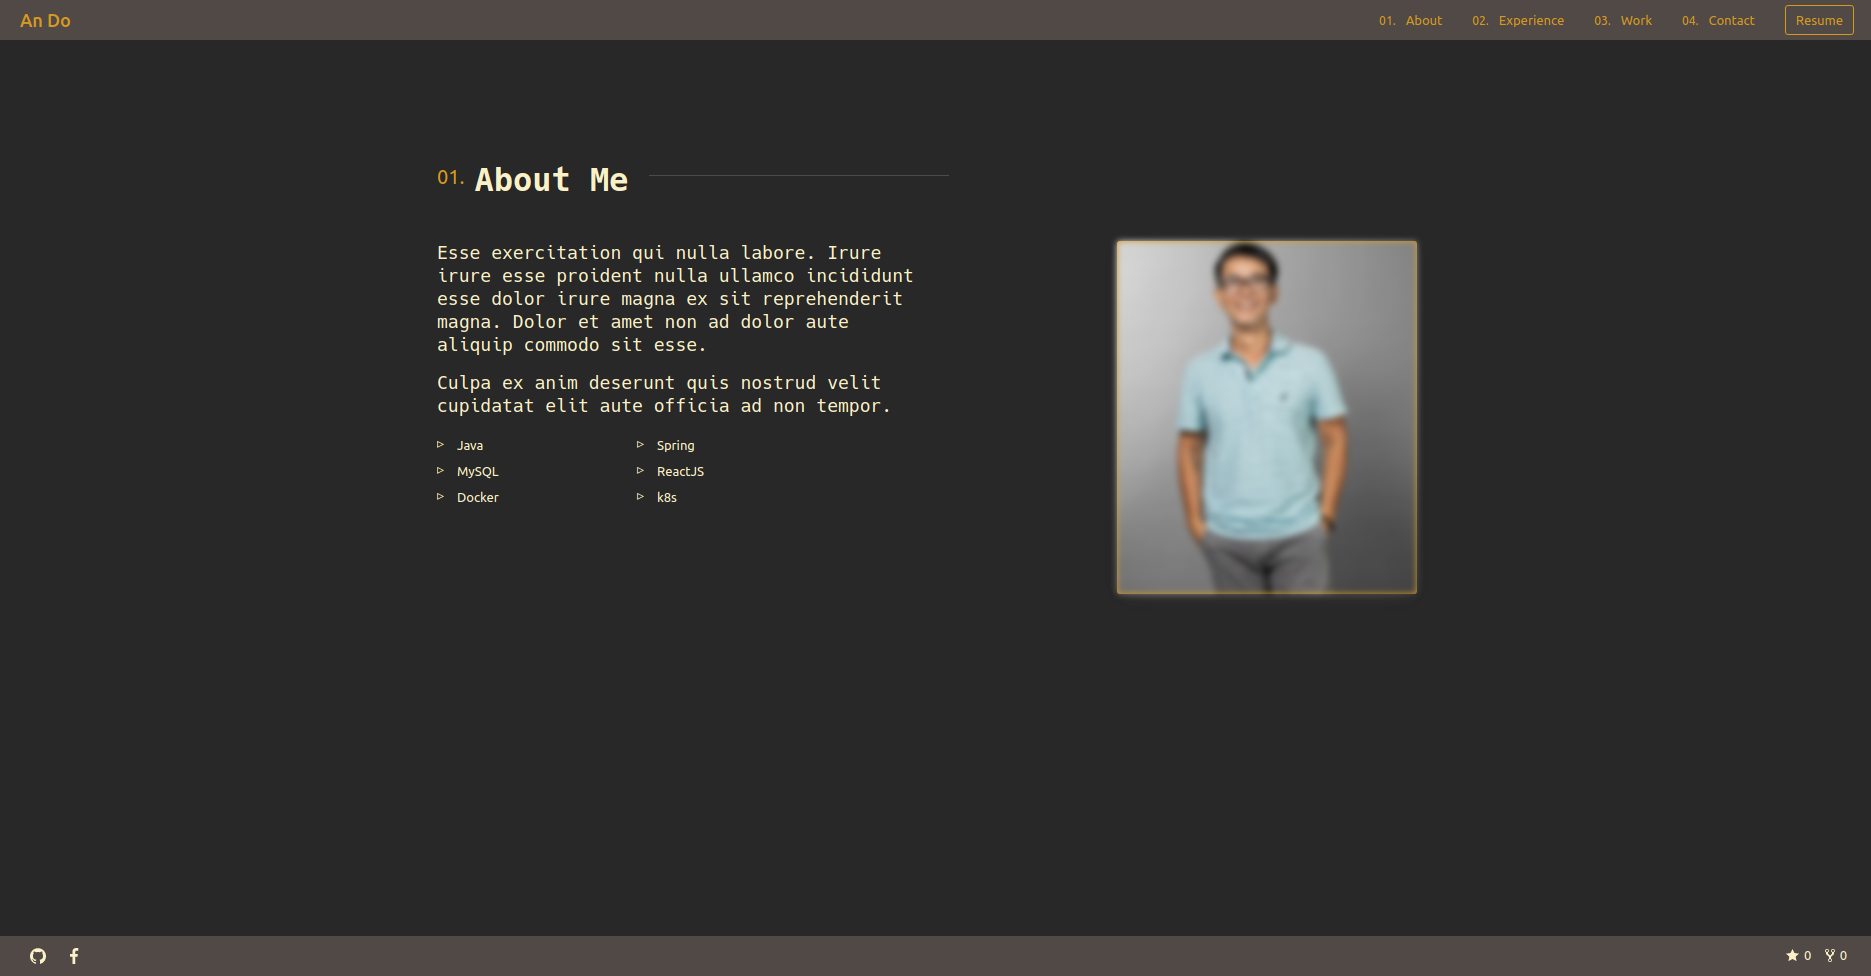
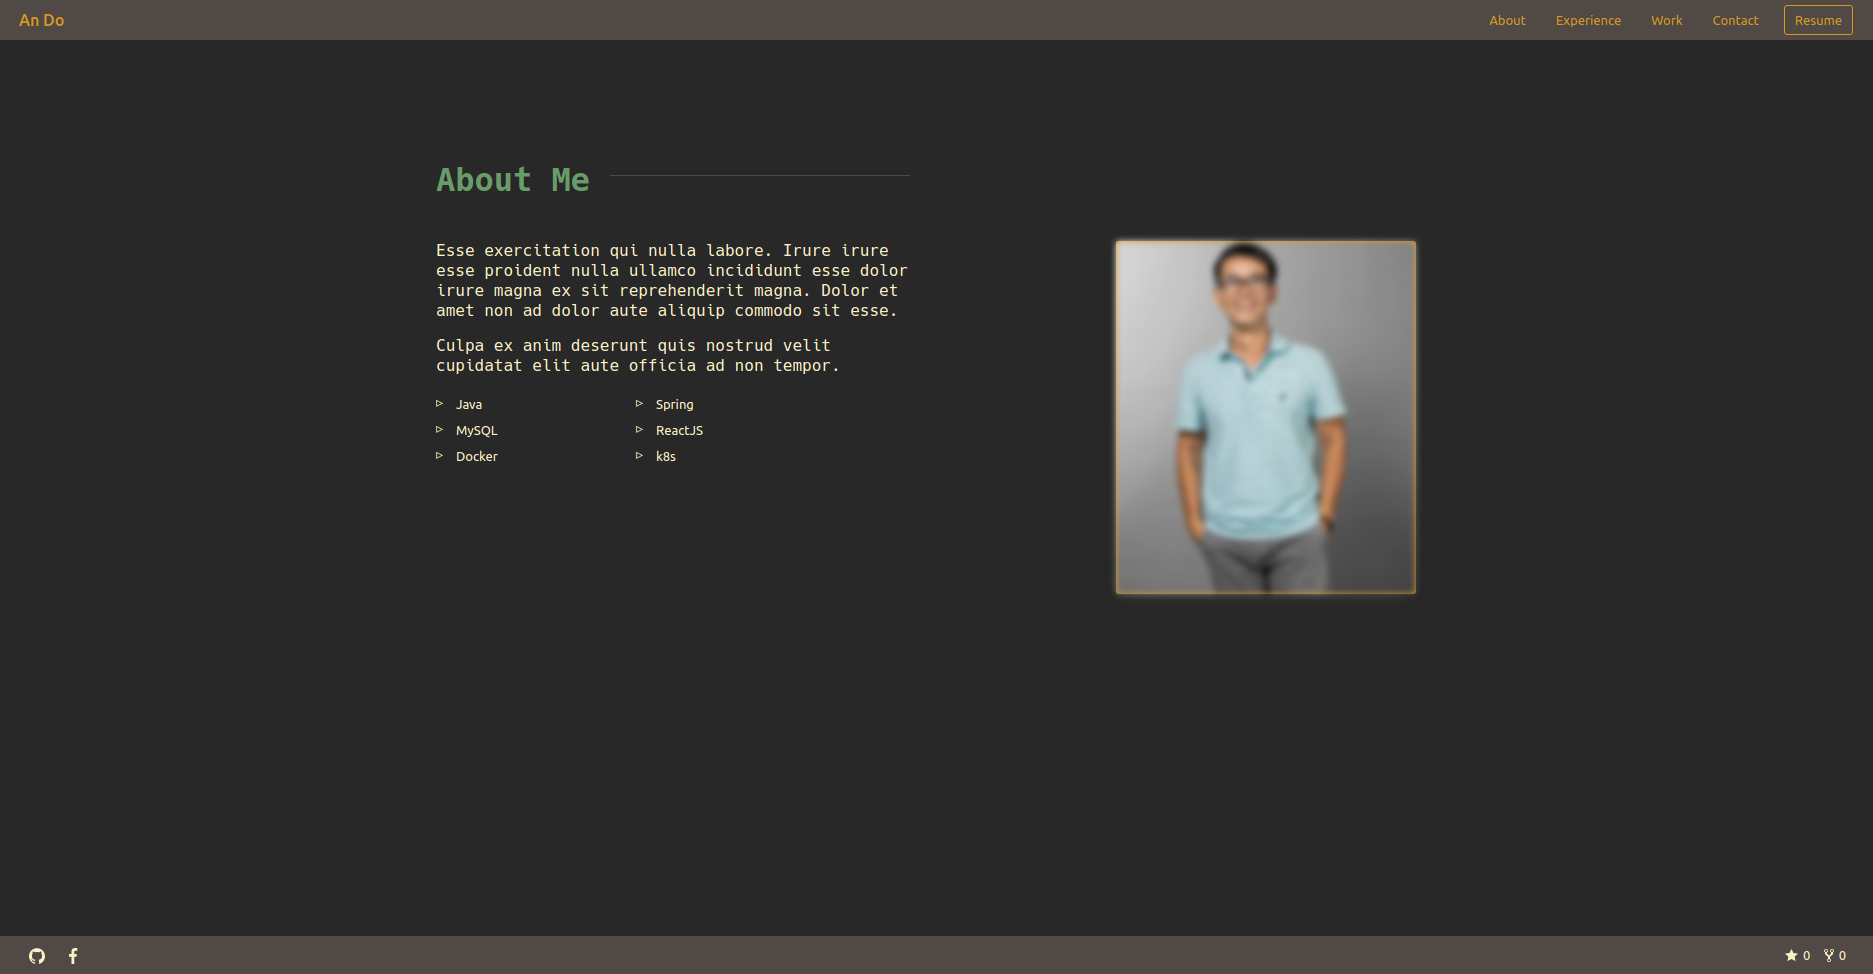
Update UI

diff --git a/src/styles/heading.js b/src/styles/heading.js
@@ -1,8 +1,9 @@
 import styled from 'styled-components';
 import Theme from './theme';
-const { colors, fontSizes, fonts } = Theme;
+const { colors, fontSizes } = Theme;
 
 const Heading = styled.h3`
+  color: ${colors.sectionHeading};
   position: relative;
   display: flex;
   align-items: center;
@@ -10,18 +11,6 @@ const Heading = styled.h3`
   width: 100%;
   white-space: nowrap;
   font-size: ${fontSizes.h3};
-
-  &:before {
-    counter-increment: section;
-    content: '0' counter(section) '.';
-    margin-right: 1rem;
-    font-family: ${fonts.secondary};
-    font-weight: normal;
-    color: ${colors.component};
-    font-size: ${fontSizes.xl};
-    position: relative;
-    bottom: 0.4rem;
-  }
 
   &:after {
     content: '';

diff --git a/src/components/header.js b/src/components/header.js
@@ -66,16 +66,9 @@ const StyledList = styled.ol`
   list-style: none;
 `;
 const StyledListItem = styled.li`
-  margin: 0 10px;
+  margin: 0 5px;
   position: relative;
   font-size: ${fontSizes.smish};
-  counter-increment: item 1;
-  &:before {
-    content: '0' counter(item) '.';
-    text-align: right;
-    color: ${colors.component};
-    font-size: ${fontSizes.xs};
-  }
 `;
 const StyledListLink = styled(Link)`
   padding: 12px 10px;

diff --git a/src/styles/theme.js b/src/styles/theme.js
@@ -10,6 +10,7 @@ const Theme = {
     shadow: `${Colors.bg4}`,
     headerBackground: `${Colors.bg2}`,
     footerBackground: `${Colors.bg2}`,
+    sectionHeading: `${Colors.aqua1}`,
   },
 
   fonts: {

diff --git a/TODO.md b/TODO.md
@@ -8,3 +8,5 @@ Correct css size(rem, px, vh and vw)
 Support responsive
 Remove not neccessary transition  
 Loading effects
+Replace proptype by typescript  
+Move resume and email to right breadcumb
